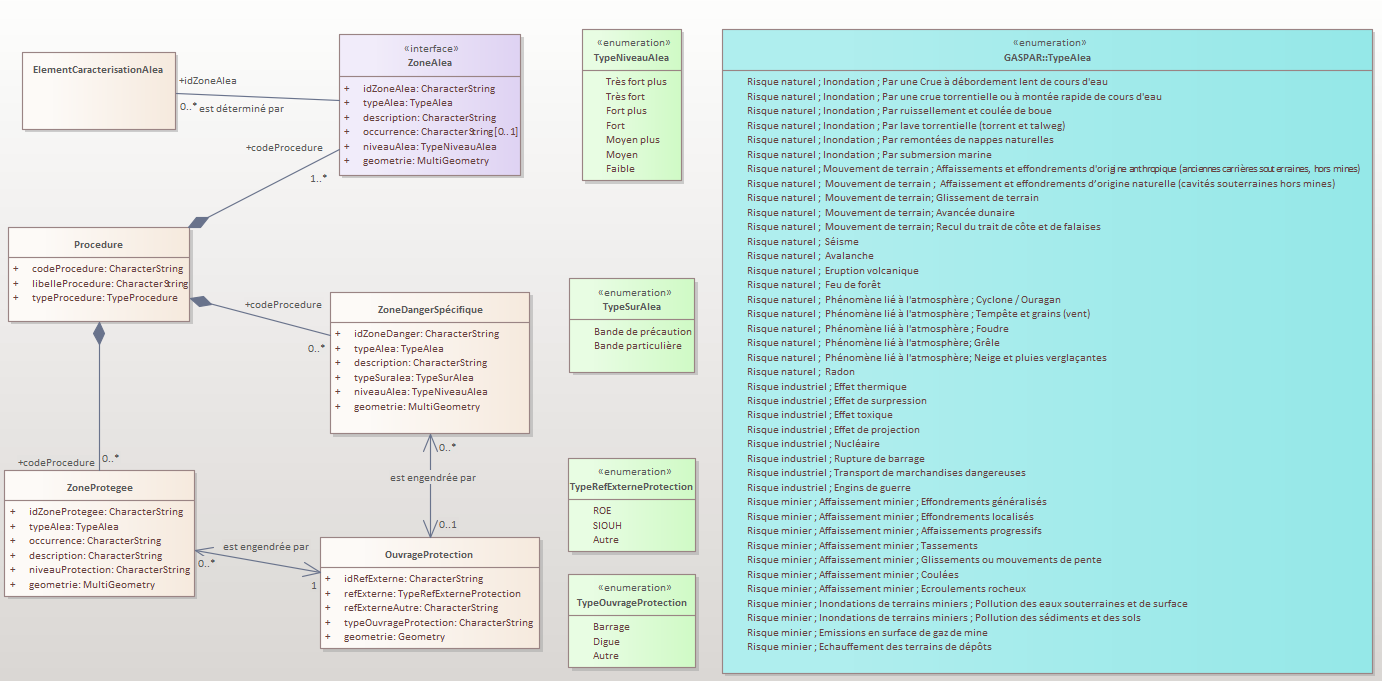
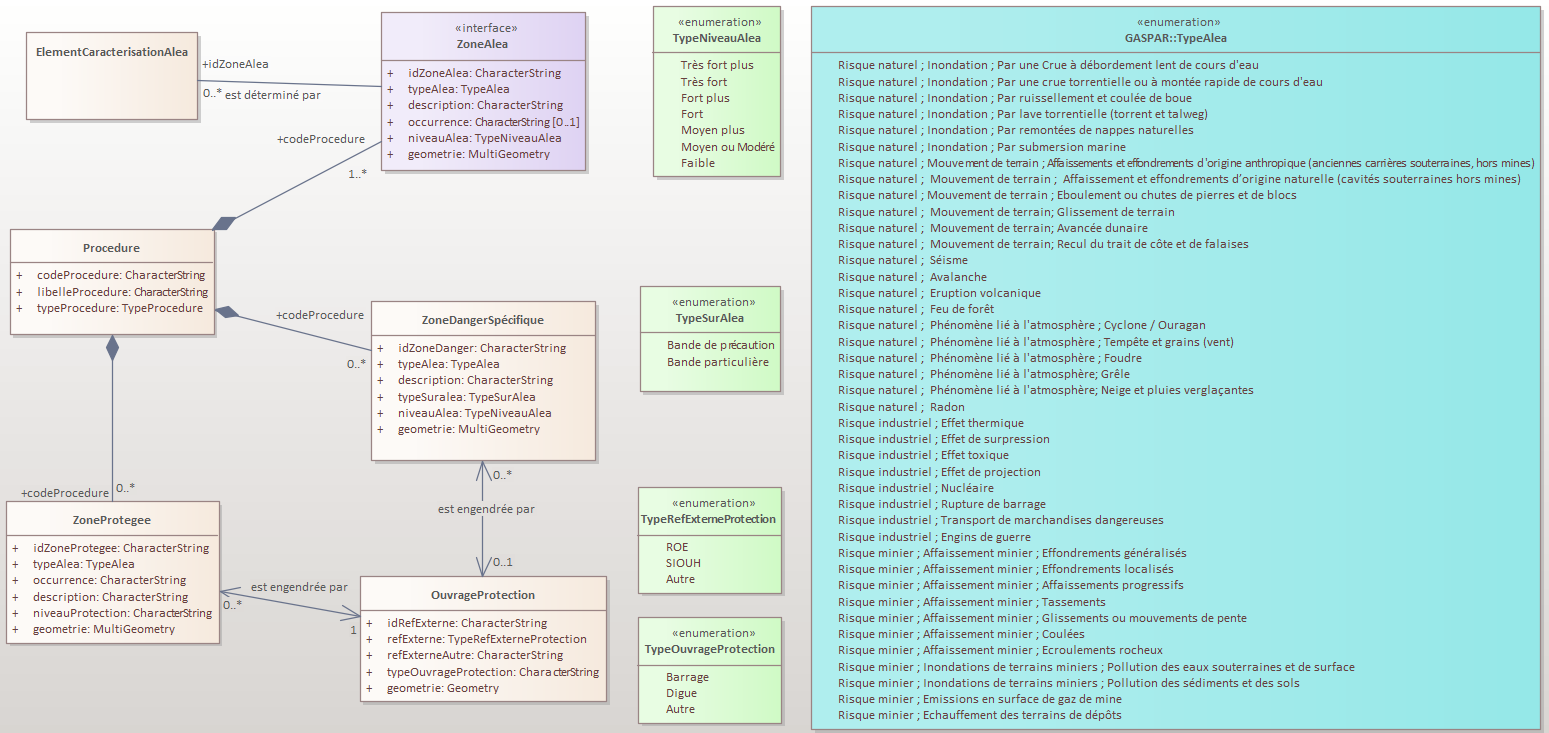
Modification du Document modèle commun relativement à #69

Changed region(s): [[0.0, 0.0, 1.0, 1.0], [0.0, 0.2775, 0.4045, 0.7093]]

diff --git a/standards/Geostandards-risques-ppr/Document.md b/standards/Geostandards-risques-ppr/Document.md
@@ -492,7 +492,7 @@ Le tableau suivant liste les différents types de procédures de prévention des
 
 #### Enumeration *TypeNiveauAlea*
 
-Le tableau suivant liste les valeurs possibles et communes pour caractériser l'intensité des aléas dans le cadre des PPR. Elles représentent une gradation sur une échelle croissante d'intensité. Les règles de détermination du niveau ainsi que leur appellation varient en fonction de la zone et du type d'aléa et sont précisées dans des guides dédiés qui sont référencés dans les métadonnées associées au jeu de données.
+Le tableau suivant reprend la liste des valeurs possibles pour caractériser l'intensité des aléas du modèle commun. Il précise leur application selon le type de PPR et les correspondances avec certaines appellations spécifiques à des types de PPR particuliers.
 
 
 
@@ -504,7 +504,7 @@ Le tableau suivant liste les valeurs possibles et communes pour caractériser l'
 | 04 | Fort | Tous PPR |
 | 05 | Fort plus | PPRT |
 | 06 | Très fort | PPRN et PPRT |
-| 07 | Très fort plus | PPRT |
+| 07 | Très fort plus | PPRT ou PPR Inondation Crue Torrentielles (Correspond au niveau "Très fort Aggravé")|
 
 
 ### Thématique Origine du Risque
